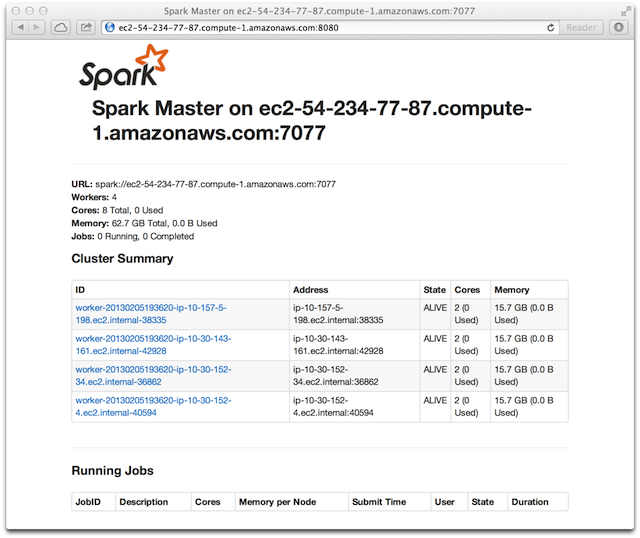
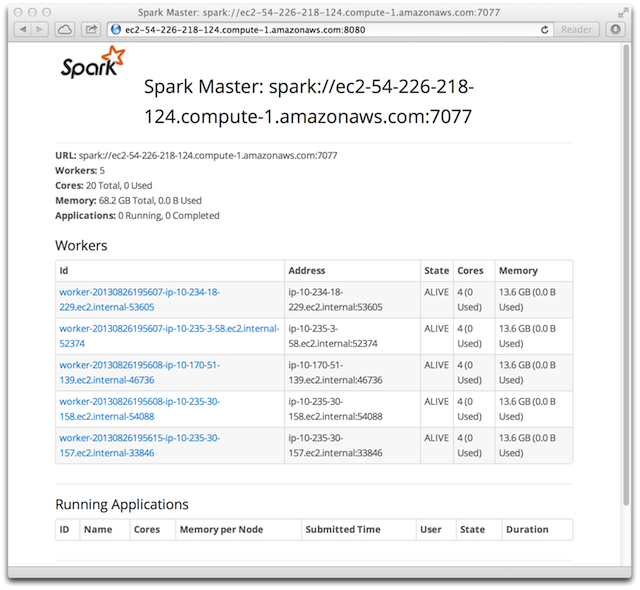
Link to new application status UI (see #54).
I also included a couple of other screenshots of
other pages in the application status UI, in case
we ever want to use them.

Changed region(s): [[0.0, 0.0, 1.0, 1.0], [0.6562, 0.4461, 0.875, 0.7732], [0.6562, 0.8922, 0.6875, 0.9219]]

diff --git a/ampcamp/data-exploration-using-spark.md b/ampcamp/data-exploration-using-spark.md
@@ -113,15 +113,32 @@ The prompt should appear within a few seconds. __Note:__ You may need to hit `[E
    This should launch 177 Spark tasks on the Spark cluster.
    If you look closely at the terminal, the console log is pretty chatty and tells you the progress of the tasks.
    Because we are reading 20G of data from HDFS, this task is I/O bound and can take a while to scan through all the data (2 - 3 mins).
-
+
    While it's running, you can open the Spark web console to see the progress.
    To do this, open your favorite browser, and type in the following URL.
 
+   `http://<master_node_hostname>:3030`
+
+   You should have been given `master_node_hostname` at the beginning of the
+   tutorial, or you might have [launched your own
+   cluster](launching-a-cluster.html) and made a note of it then. You should
+   see the Spark application status web interface, similar to the following:
+
+   ![Spark Application Status Web UI](img/application-webui640.png)
+
+   The links in this interface allow you to track the job's progress and
+   various metrics about its execution, including task durations and cache
+   statistics.
+
+   In addition, the Spark Standalone cluster status web interface displays
+   information that pertains to the entire Spark cluster.  To view this UI,
+   browse to
+
    `http://<master_node_hostname>:8080`
 
-   You should have been given `master_node_hostname` at the beginning of the tutorial, or you might have [launched your own cluster](launching-a-cluster.html) and made a note of it then. You should see the Spark Standalone mode web interface, similar to the following (yours will probably show five slaves).
+   You should see a page similar to the following (yours will probably show five slaves):
 
-   ![Spark Standalone Web UI](img/standalone-webui640.png)
+   ![Spark Cluster Status Web UI](img/standalone-webui640.png)
 
    When your query finishes running, it should return the following count:
 
